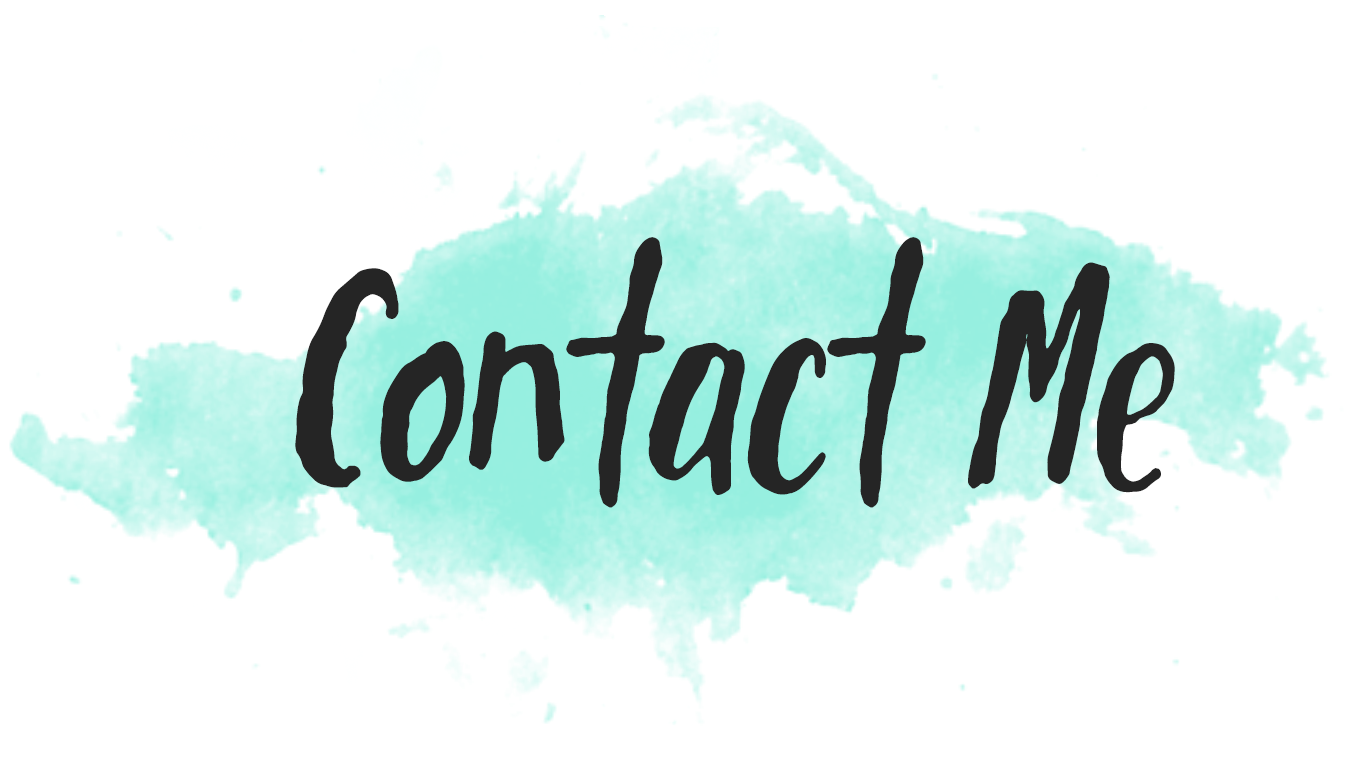
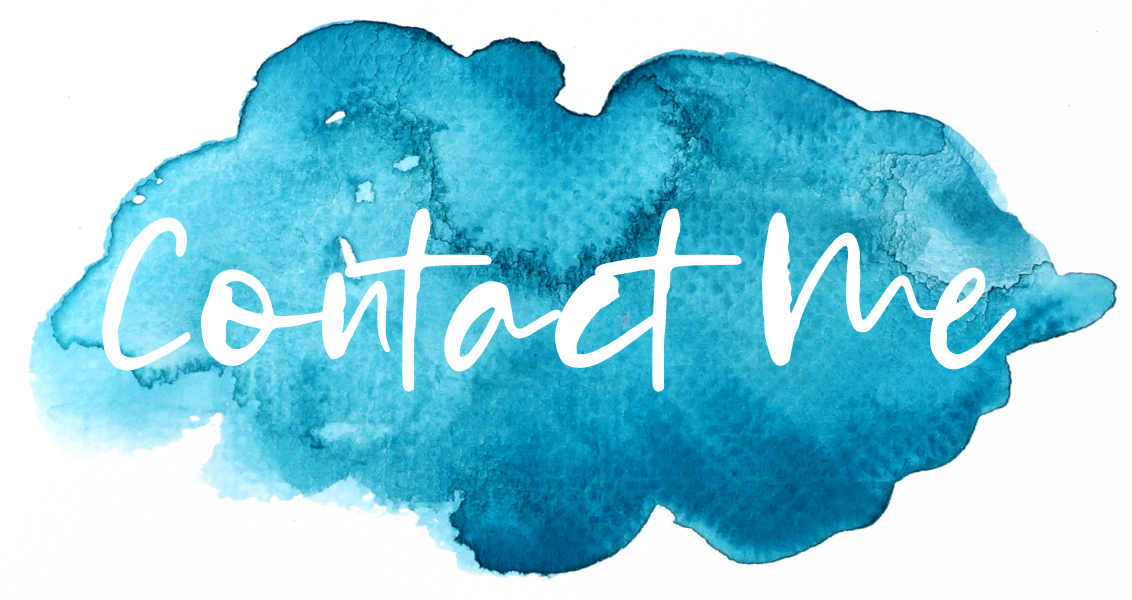
Change font for EDA
font change from lemon paper to mojo house for EDA page

diff --git a/projects/EDArtwork.html b/projects/EDArtwork.html
@@ -49,7 +49,7 @@
 
 		<!-- Header Image -->
 		<div class="row">
-			<img src="../projects/edavisartwork/title.png" class="mx-auto" style="width: 350px; height: 180px;">
+			<img src="../projects/edavisartwork/title.png" class="mx-auto" style="width: 350px; height: 233px;">
 		</div>
 
 		<!-- About -->
@@ -58,15 +58,17 @@
 				<img src="../images/profile.jpg" class="profile" alt="profile image" style="width: 200px; height: 200px;">
 			</div>
 			<div class="col-lg-9">
-				<img src="../projects/edavisartwork/about.png" style="width: 190px; height: 100px;">
+				<img src="../projects/edavisartwork/about.png" style="width: 190px; height: 110px;">
 				<p class="center">Hi! I'm Elizabeth. I'm a User Experience Designer based in NYC but I have a passion for painting, drawing, hand lettering, and creating. Because of this, I started photographing my work and posting them on my instagram account <u><a href="https://www.instagram.com/edavisartwork/" target="_blank"> @edavisartwork</a></u>.<br><br> I grew up on the Jersey Shore and take a lot of inspiration from the endless days I spent on the beach every summer. I love coloring my work with many different shades of blue and green, like the colors of the ocean that have influenced my life in so many positive ways. I love making pieces for people who connect with the ocean as much as I do, and I love lettering quotes that mean so much to them!<br><br>On this site you'll find some projects that I have worked on, some features from Instagram, and a contact form where you can reach out! I would love to hear from you and would be happy to customize a special piece that you can bring into your home.<br></p>
 				
 			</div>
 		</div>
 
+		<hr />
+
 		<!-- Instagram -->
 		<div class="row">
-			<img src="../projects/edavisartwork/instagram.png" style="width: 190px; height: 100px;">
+			<img src="../projects/edavisartwork/instagram.png" style="width: 190px; height: 110px;">
 
 			<!-- Elfsight Widget -->
 			<script src="https://apps.elfsight.com/p/platform.js" defer></script>
@@ -74,10 +76,15 @@
 
 		</div>
 
+		<hr />
+
 		<!-- Projects -->
 		<div class="row">
-			<img src="../projects/edavisartwork/projects.png" style="width: 190px; height: 100px;">
+			<img src="../projects/edavisartwork/projects.png" style="width: 190px; height: 115px;">
 		</div>
+
+		<br>
+
 		<div class="row">
 			<div class="col-lg-3">
 				<img src="../projects/edavisartwork/Allison-BabyShower/title.png" style="width: 220px; height: 220px;">
@@ -155,6 +162,8 @@
 	            </div>
 			</div>
 		</div>
+
+		<hr />
 
 		<br>
 

diff --git a/css/edartwork-styles.css b/css/edartwork-styles.css
@@ -1,6 +1,6 @@
 @font-face {
-	font-family: Lemonpaper;
-	src: url(../fonts/Lemon-Paper.ttf);
+	font-family: Mojo;
+	src: url(../fonts/Mojo-House.otf);
 }
 
 body {
@@ -10,20 +10,20 @@ body {
 }
 
 h1 {
-	font-family: Lemonpaper, 'sans-serif';
+	font-family: Mojo, 'sans-serif';
 	font-weight: 400;
 	font-size: 30px;
 }
 
 h2 {
-	font-family: Lemonpaper, 'sans-serif';
+	font-family: Mojo, 'sans-serif';
 	padding-top: 10px;
 	font-weight: 400;
 	font-size: 24px;
 }
 
 h3 {
-	font-family: Lemonpaper, 'sans-serif';
+	font-family: Mojo, 'sans-serif';
 	font-weight: 400;
 	font-size: 18px;
 }
@@ -36,7 +36,7 @@ h4 {
 }
 
 h5 {
-	font-family: Lemonpaper, 'sans-serif';
+	font-family: Mojo, 'sans-serif';
 	font-size: 16px;
 	font-weight: 200;
 	color: #AEAEAE;
